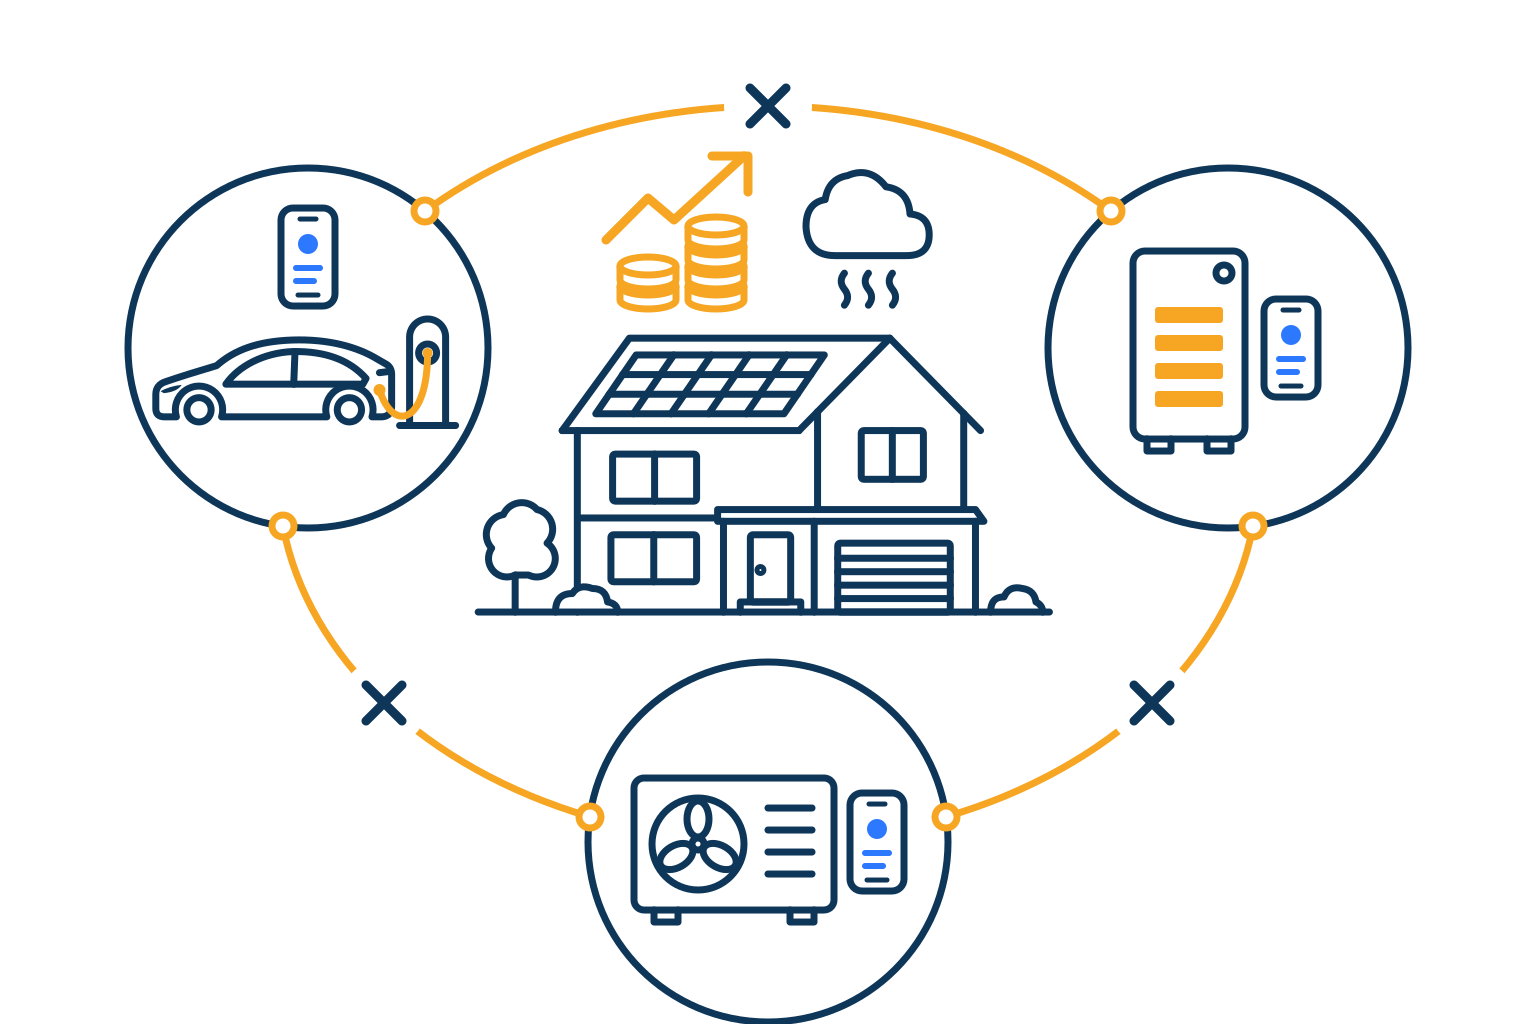
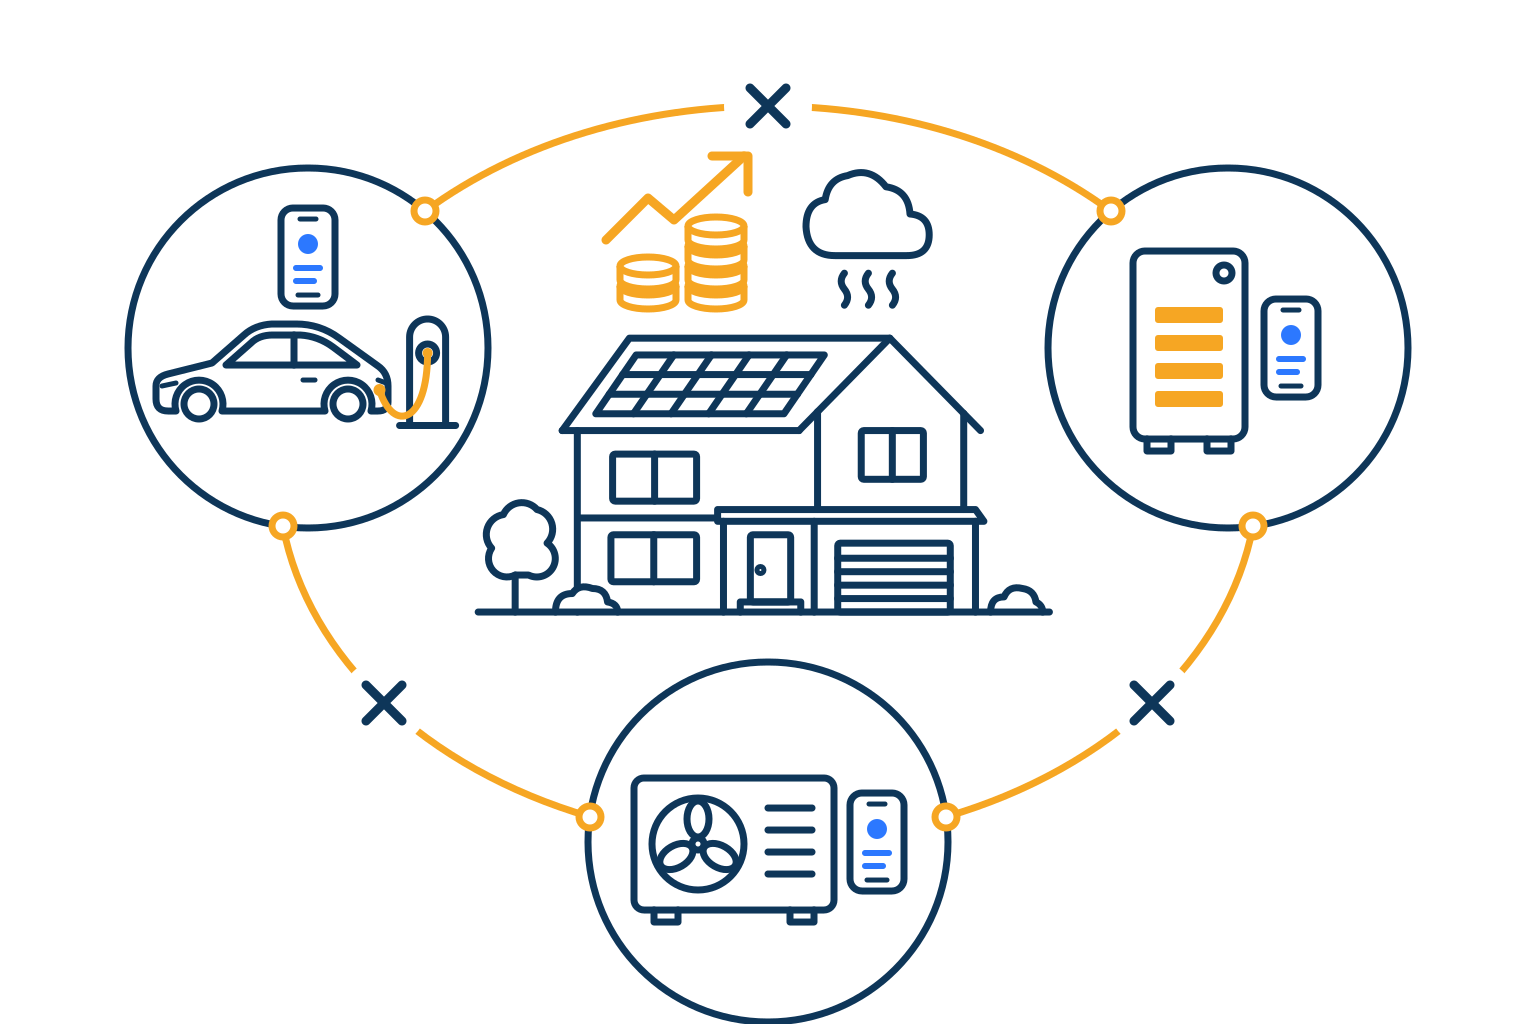
artwork: refine the fragmented-home car proportions and wheels

Changed region(s): [[0.0938, 0.3125, 0.2812, 0.4375]]

diff --git a/README.md b/README.md
@@ -49,6 +49,8 @@ exported at 1536 by 1024 from its editable source,
 It contains no logo or text. Its home and phones are copies of the components
 below.
 
+The previous car drawing and its raster export are preserved in `legacy/v3/`.
+
 ## Illustration components
 
 `components/` holds line-art parts to reuse in insight images and other
